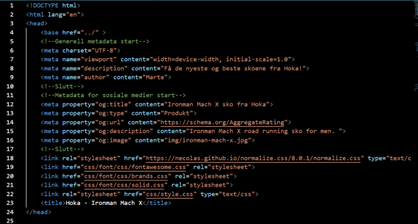
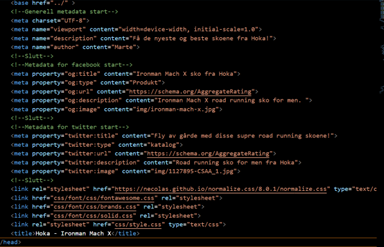
endret bilde
endret et bilde

diff --git a/hovedmappe/analyse.html b/hovedmappe/analyse.html
@@ -237,7 +237,7 @@
             </section>
             <section>
                 <h3>Metadata og SOME</h3>
-                <img src="img/Metadata-some.png" alt="Et bilde av genrell og SOME metadata for produktsiden">
+                <img src="img/Metadata-some-1.png" alt="Et bilde av genrell og SOME metadata for produktsiden">
                 <p>På siste trinn lagde jeg nye og bedre beskrivelser til titlene enn jeg gjorde i trinn 2. Nå ble de mer utfyllende og beskriver sidene mye mer. Generell metadata hadde jeg allerede lagt inn fra trinn 2, men jeg la til ny metadata for sosiale medier (facebook og twitter). Dette gjorde jeg på alle sidene. Over ser du metadataen for produktsiden min. </p>
         </section>
     </main>
